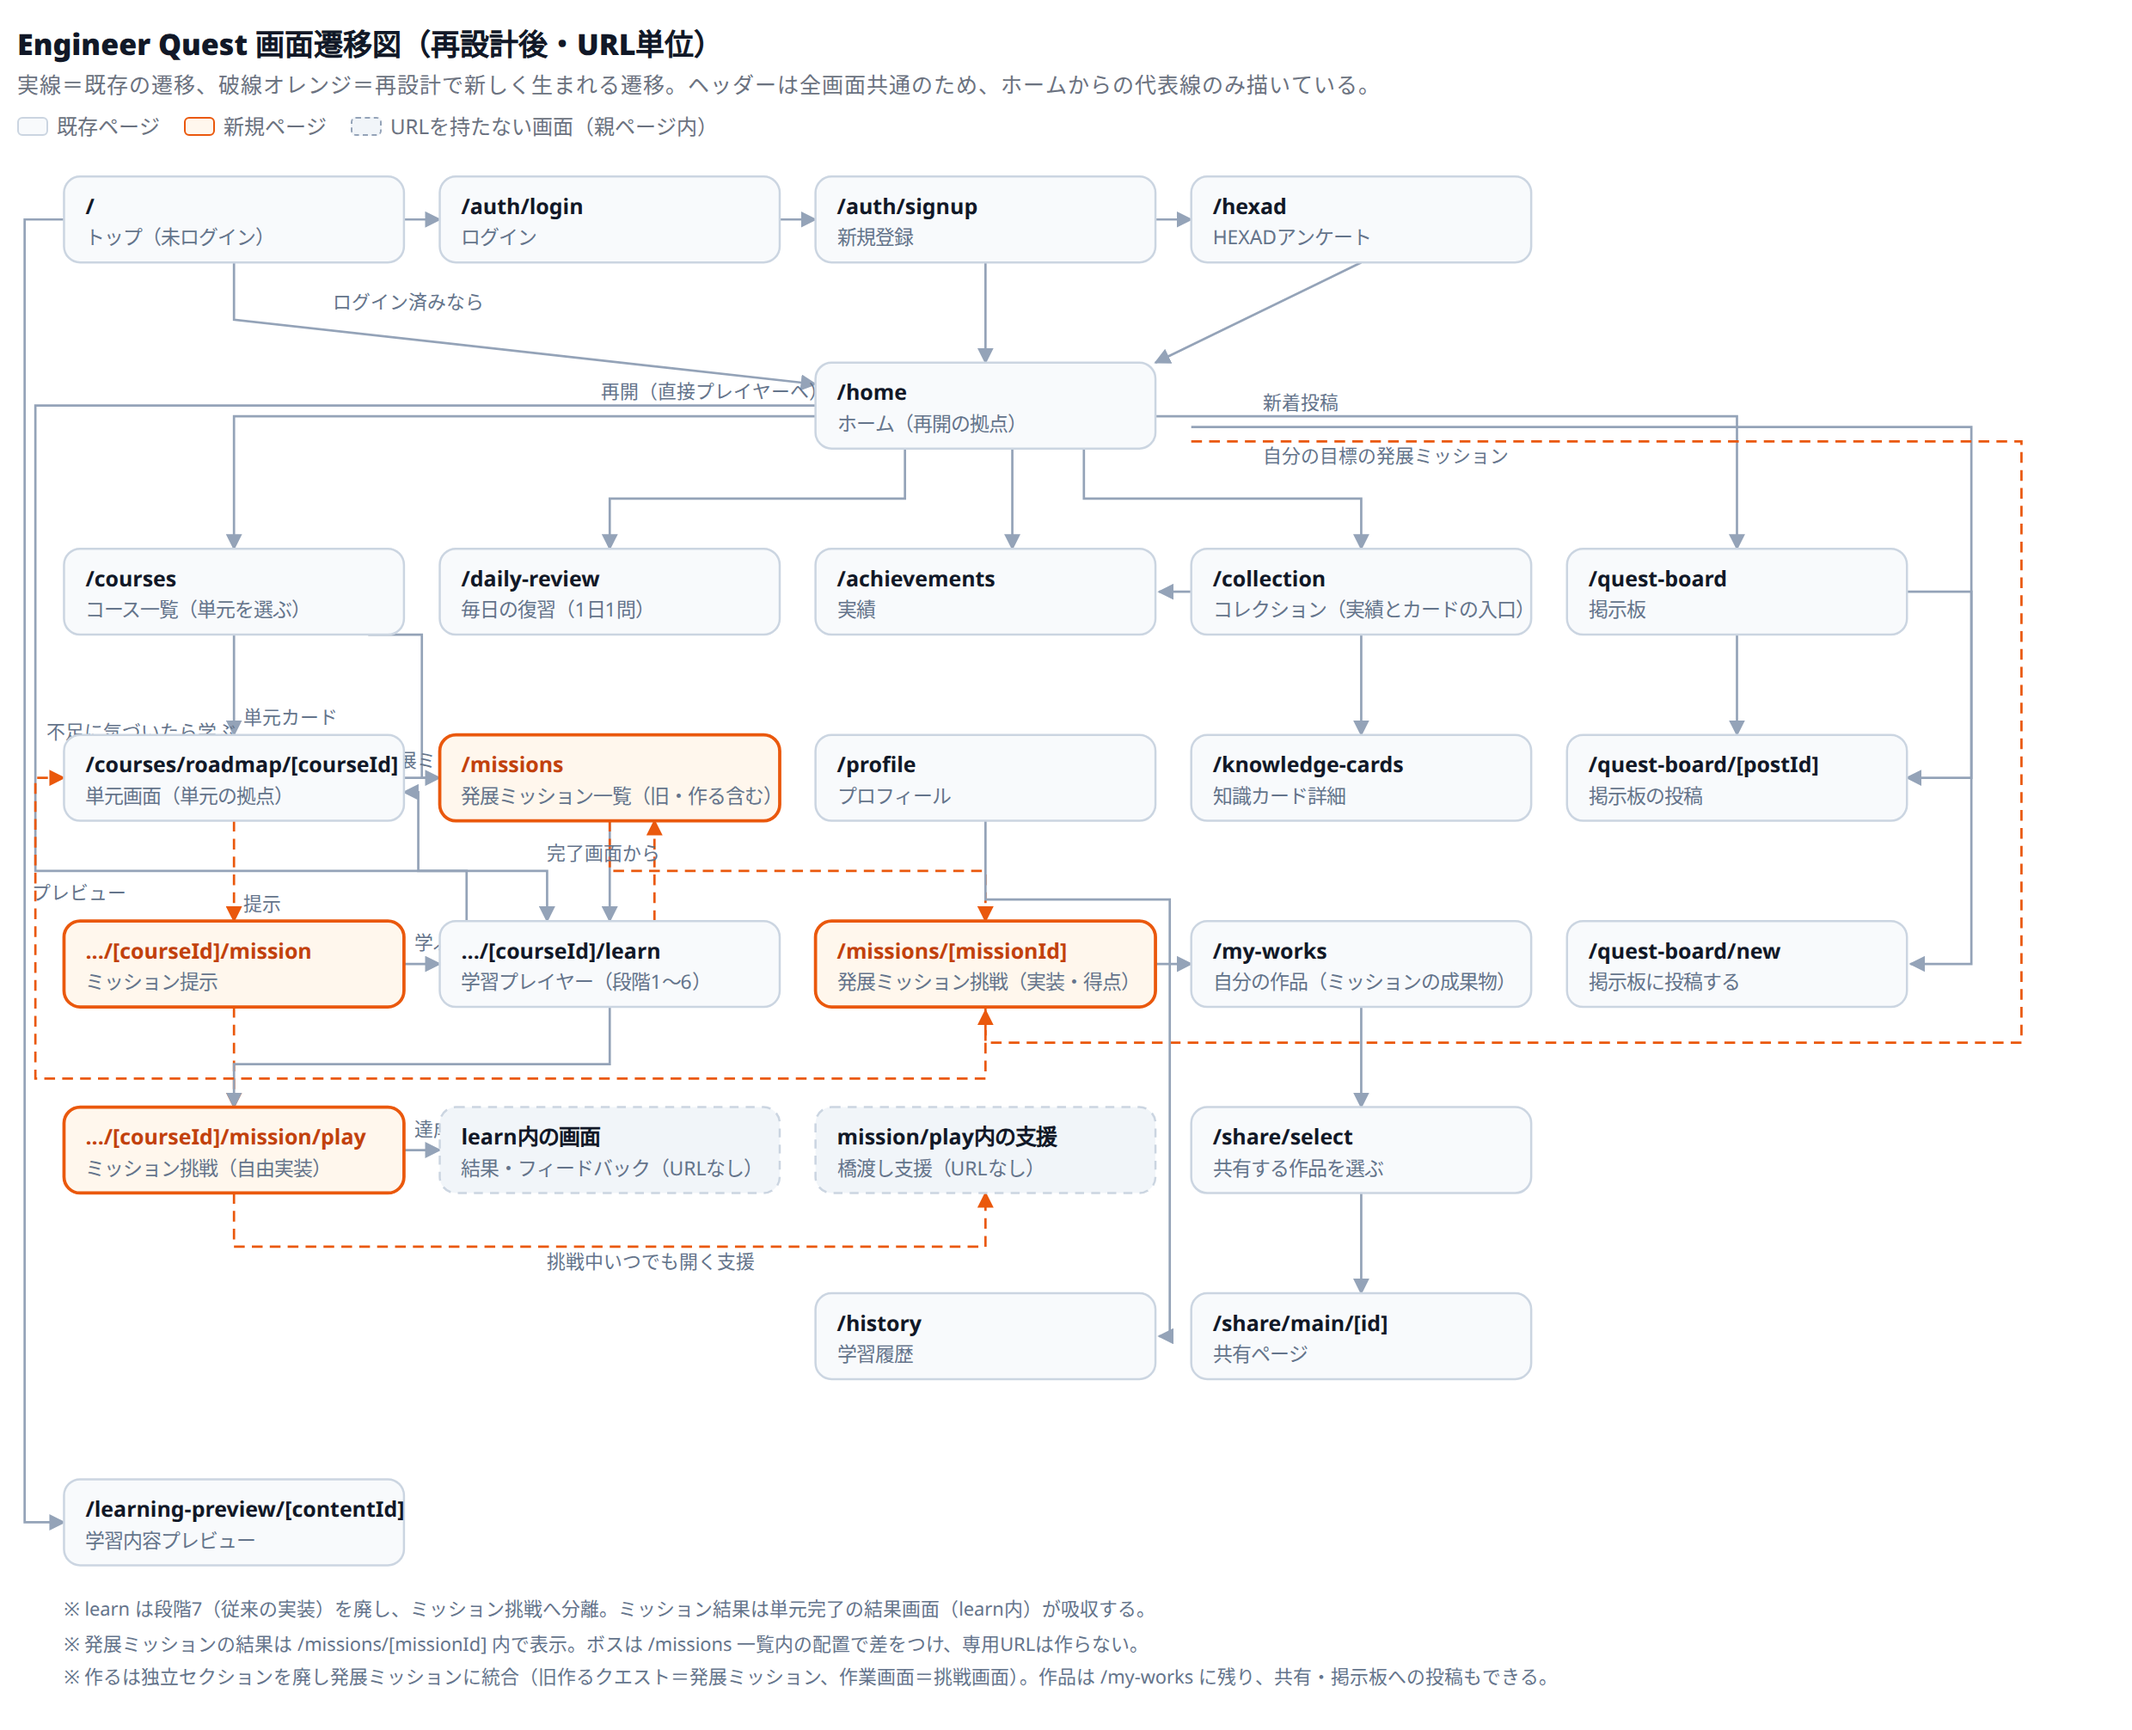
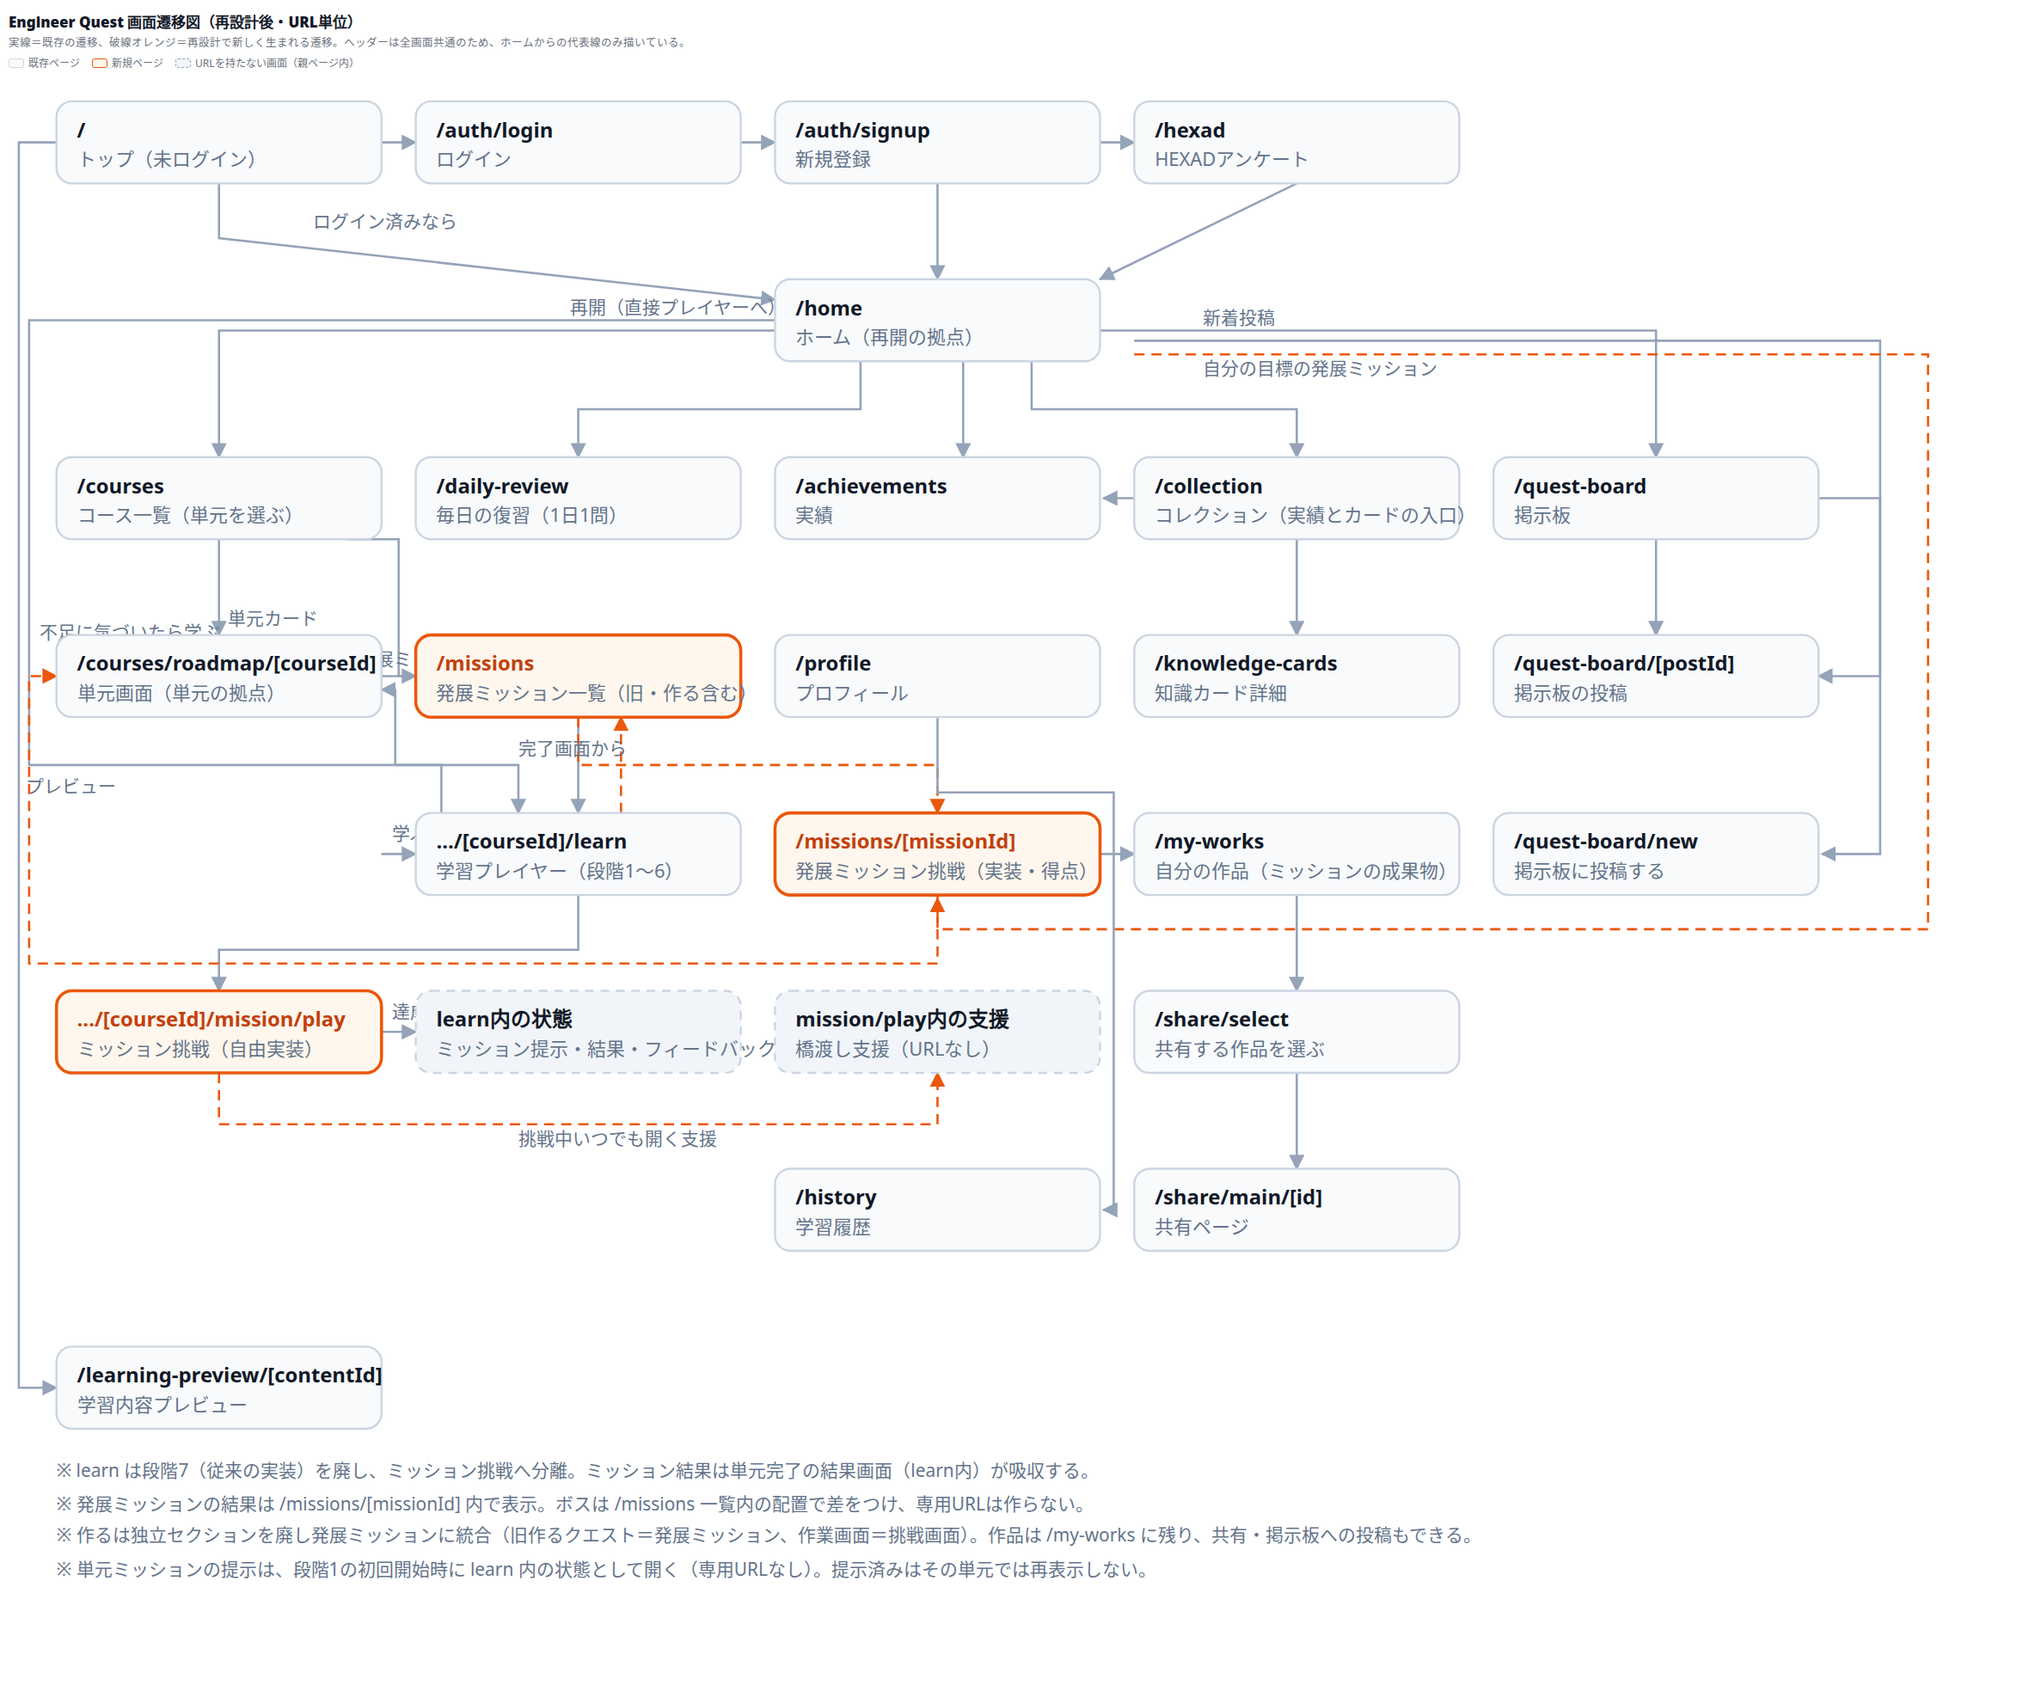
docs: 画面遷移図 — 単元ミッション提示を /mission ルートから learn 内の状態へ修正（2026-11-23 決定）

diff --git a/docs/screen-map.html b/docs/screen-map.html
@@ -28,7 +28,7 @@ html[data-theme="dark"].n.new text.u { fill: #fdba74;}
 <span><i class="sw" style="background:#fff7ed;border:1.8px solid #ea580c"></i>新規ページ</span>
 <span><i class="sw" style="background:#f1f5f9;border:1.2px dashed #94a3b8"></i>URLを持たない画面（親ページ内）</span>
 </div>
-<svg viewBox="0 0 1180 880" role="img" aria-label="画面遷移図">
+<svg viewBox="0 0 1180 900" role="img" aria-label="画面遷移図">
 <defs>
 <marker id="arw" viewBox="0 0 10 10" refX="9" refY="5" markerWidth="7" markerHeight="7" orient="auto-start-reverse"><path d="M0,0 L10,5 L0,10 z" fill="#94a3b8"/></marker>
 <marker id="arwN" viewBox="0 0 10 10" refX="9" refY="5" markerWidth="7" markerHeight="7" orient="auto-start-reverse"><path d="M0,0 L10,5 L0,10 z" fill="#ea580c"/></marker>
@@ -54,11 +54,9 @@ html[data-theme="dark"].n.new text.u { fill: #fdba74;}
 <!-- コース・単元 -->
 <path class="e" marker-end="url(#arw)" d="M125,272 L125,328"/>
 <path class="e" marker-end="url(#arw)" d="M200,272 L230,272 L230,352 L240,352"/>
-<path class="e new" marker-end="url(#arwN)" d="M125,376 L125,432"/>
 <path class="e" marker-end="url(#arw)" d="M220,352 L335,352 L335,432"/>
 <path class="e" marker-end="url(#arw)" d="M220,456 L240,456"/>
 <path class="e" marker-end="url(#arw)" d="M255,432 L255,404 L228,404 L228,360 L220,360"/>
-<path class="e new" marker-end="url(#arwN)" d="M125,480 L125,536"/>
 <path class="e" marker-end="url(#arw)" d="M335,480 L335,512 L125,512 L125,536"/>
 <path class="e" marker-end="url(#arw)" d="M220,560 L240,560"/>
 <path class="e new" marker-end="url(#arwN)" d="M360,432 L360,404 L360,376"/>
@@ -85,7 +83,6 @@ html[data-theme="dark"].n.new text.u { fill: #fdba74;}
 <text class="el" x="700" y="176">自分の目標の発展ミッション</text>
 <text class="el" x="130" y="322">単元カード</text>
 <text class="el" x="206" y="346">発展ミッション</text>
-<text class="el" x="130" y="426">提示</text>
 <text class="el" x="226" y="448">学ぶ</text>
 <text class="el" x="300" y="398">完了画面から</text>
 <text class="el" x="20" y="330">不足に気づいたら学ぶ</text>
@@ -114,14 +111,13 @@ html[data-theme="dark"].n.new text.u { fill: #fdba74;}
 <g class="n"><rect x="660" y="328" width="190" height="48" rx="9"/><text class="u" x="672" y="349">/knowledge-cards</text><text class="l" x="672" y="366">知識カード詳細</text></g>
 <g class="n"><rect x="870" y="328" width="190" height="48" rx="9"/><text class="u" x="882" y="349">/quest-board/[postId]</text><text class="l" x="882" y="366">掲示板の投稿</text></g>
 <!-- 詳細2 -->
-<g class="n new"><rect x="30" y="432" width="190" height="48" rx="9"/><text class="u" x="42" y="453">.../[courseId]/mission</text><text class="l" x="42" y="470">ミッション提示</text></g>
 <g class="n"><rect x="240" y="432" width="190" height="48" rx="9"/><text class="u" x="252" y="453">.../[courseId]/learn</text><text class="l" x="252" y="470">学習プレイヤー（段階1〜6）</text></g>
 <g class="n new"><rect x="450" y="432" width="190" height="48" rx="9"/><text class="u" x="462" y="453">/missions/[missionId]</text><text class="l" x="462" y="470">発展ミッション挑戦（実装・得点）</text></g>
 <g class="n"><rect x="660" y="432" width="190" height="48" rx="9"/><text class="u" x="672" y="453">/my-works</text><text class="l" x="672" y="470">自分の作品（ミッションの成果物）</text></g>
 <g class="n"><rect x="870" y="432" width="190" height="48" rx="9"/><text class="u" x="882" y="453">/quest-board/new</text><text class="l" x="882" y="470">掲示板に投稿する</text></g>
 <!-- 詳細3 -->
 <g class="n new"><rect x="30" y="536" width="190" height="48" rx="9"/><text class="u" x="42" y="557">.../[courseId]/mission/play</text><text class="l" x="42" y="574">ミッション挑戦（自由実装）</text></g>
-<g class="n nourl"><rect x="240" y="536" width="190" height="48" rx="9"/><text class="u" x="252" y="557">learn内の画面</text><text class="l" x="252" y="574">結果・フィードバック（URLなし）</text></g>
+<g class="n nourl"><rect x="240" y="536" width="190" height="48" rx="9"/><text class="u" x="252" y="557">learn内の状態</text><text class="l" x="252" y="574">ミッション提示・結果・フィードバック</text></g>
 <g class="n nourl"><rect x="450" y="536" width="190" height="48" rx="9"/><text class="u" x="462" y="557">mission/play内の支援</text><text class="l" x="462" y="574">橋渡し支援（URLなし）</text></g>
 <g class="n"><rect x="660" y="536" width="190" height="48" rx="9"/><text class="u" x="672" y="557">/share/select</text><text class="l" x="672" y="574">共有する作品を選ぶ</text></g>
 <!-- 詳細4 -->
@@ -132,5 +128,6 @@ html[data-theme="dark"].n.new text.u { fill: #fdba74;}
 <text class="el" x="30" y="820">※ learn は段階7（従来の実装）を廃し、ミッション挑戦へ分離。ミッション結果は単元完了の結果画面（learn内）が吸収する。</text>
     <text class="el" x="30" y="840">※ 発展ミッションの結果は /missions/[missionId] 内で表示。ボスは /missions 一覧内の配置で差をつけ、専用URLは作らない。</text>
     <text class="el" x="30" y="858">※ 作るは独立セクションを廃し発展ミッションに統合（旧作るクエスト＝発展ミッション、作業画面＝挑戦画面）。作品は /my-works に残り、共有・掲示板への投稿もできる。</text>
+    <text class="el" x="30" y="878">※ 単元ミッションの提示は、段階1の初回開始時に learn 内の状態として開く（専用URLなし）。提示済みはその単元では再表示しない。</text>
 </svg>
 </div>
